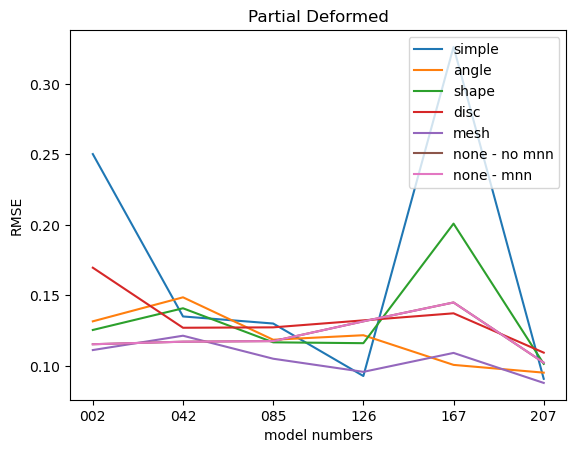
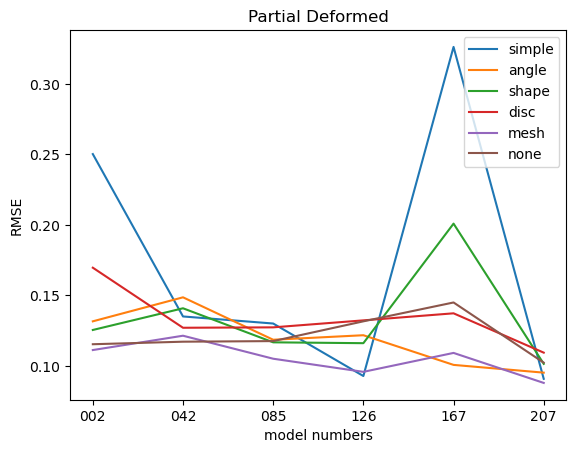
changing the weights that are used for testing

diff --git a/Testing/exterior_boundary_detection/aggregate_data_edge_filtering_rmse.py b/Testing/exterior_boundary_detection/aggregate_data_edge_filtering_rmse.py
@@ -16,7 +16,7 @@ epoch = 'null'
 training_data = 'pretrained'
 
 models=['002', '042', '085', '126', '167', '207']
-criteria = ['simple', 'angle', 'shape', 'disc', 'mesh', 'none - no mnn', 'none - mnn']
+criteria = ['simple', 'angle', 'shape', 'disc', 'mesh', 'none']
 data_types=['Partial Deformed', 'Partial Non Deformed']
 base = 'Testing/'
 folder = 'exterior_boundary_detection/'
@@ -30,9 +30,7 @@ final_matrices = {model : copy.deepcopy(sub_matrix) for model in models}
 
 for criterion in criteria:
 
-    if criterion == 'none - no mnn':
-        file='testing_none_edge_filtering_pre_none_' + feature_extractor + '_td_' + training_data + '_epoch_' + epoch + '.txt'
-    elif criterion == 'none - mnn':
+    if criterion == 'none':
         file='testing_none_edge_filtering_pre_mutual_' + feature_extractor + '_td_' + training_data + '_epoch_' + epoch + '.txt'
     else:
         file='testing_' + criterion + '_edge_filtering_pre_' + preprocessing + '_' + feature_extractor + '_td_' + training_data + '_epoch_' + epoch + '.txt'
@@ -63,10 +61,7 @@ for criterion in criteria:
             criterion_val = 'mesh'
 
         if 'Edge filtering not used' in line:
-            if criterion == 'none - no mnn':
-                criterion_val = 'none - no mnn'
-            elif criterion == 'none - mnn':
-                criterion_val = 'none - mnn'
+            criterion_val = 'none'
         
         if line[:-1] in data_types:
             current_data_type = line[:-1]
